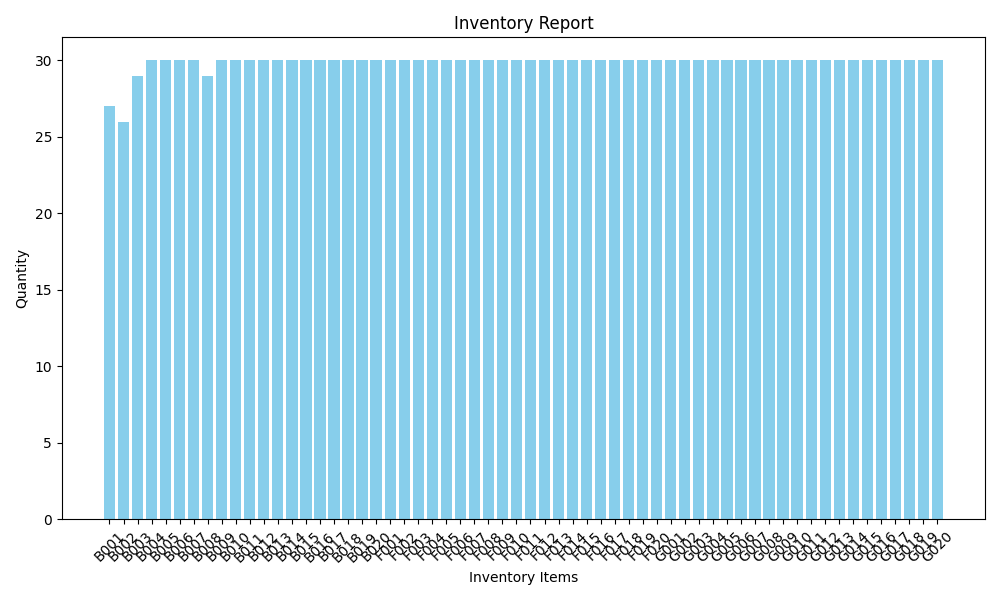
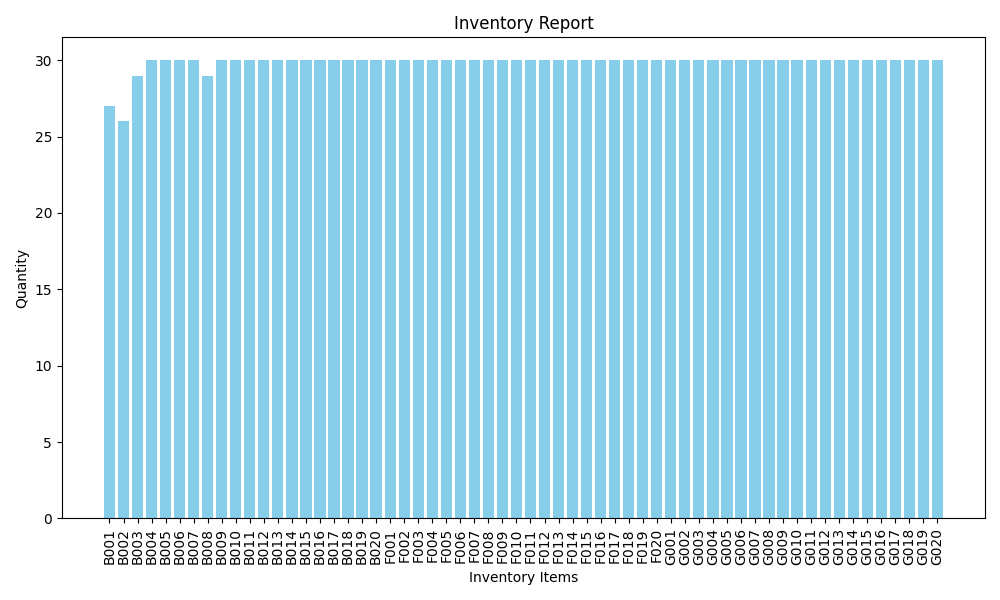
hehe

Changed region(s): [[0.062, 0.84, 0.961, 0.96], [0.031, 0.6, 0.062, 0.63], [0.031, 0.33, 0.062, 0.36]]

diff --git a/main_admin.py b/main_admin.py
@@ -4,8 +4,6 @@ from tkinter import messagebox, ttk
 import subprocess
 from functions import *
 from datetime import datetime
-import os
-import glob
 
 class InventoryWindow(Inventory):
     def __init__(self, root, admin_ui):
@@ -185,17 +183,17 @@ class admin_UI:
         self.clock_label.place(x=0, 
                                y=self.root.winfo_screenheight()*0.07, 
                                relwidth=1, 
-                               height=self.root.winfo_screenheight()*0.08)
+                               height=self.root.winfo_screenheight()*0.05)
 
         # Left Menu
         left_menu = tk.Frame(self.root, bd=2, relief=tk.RIDGE, bg="white")
         left_menu.place(x=0, 
-                        y=self.root.winfo_screenheight()*0.15, 
+                        y=self.root.winfo_screenheight()*0.12, 
                         relwidth=0.2, 
-                        height=self.root.winfo_screenheight()*0.85)
+                        height=self.root.winfo_screenheight()*0.88)
 
         main_panel = tk.Frame(self.root, bd=2, relief=tk.FLAT)
-        main_panel.place(x=self.root.winfo_screenwidth()*0.2, y=102, relwidth=0.8, height=self.root.winfo_screenheight()-102)
+        main_panel.place(x=self.root.winfo_screenwidth()*0.2, y=self.root.winfo_screenheight()*0.12, relwidth=0.8, height=self.root.winfo_screenheight()*0.88)
         menu_label = tk.Label(left_menu, text="Menu", font=("times new roman", 20), bg="pink")
         menu_label.pack(side=tk.TOP, fill=tk.X)
 
@@ -207,14 +205,14 @@ class admin_UI:
         # Buttons in Left Menu
         flower_label = tk.Label(left_menu, image=self.menu_img, compound=tk.CENTER)
         flower_label.pack(side=tk.TOP, fill=tk.X)
-        inventory_button = tk.Button(left_menu, text="\nInventory Module\n", command=self.inventoryWindwow.inventory_window, font=("times new roman", 20), bg="blue", fg="white")
+        inventory_button = tk.Button(left_menu, text="\nInventory Module\n", command=self.inventoryWindwow.inventory_window, font=("times new roman", 20),cursor="hand2")
         inventory_button.pack(side=tk.TOP, fill=tk.X)
-        analytics_button = tk.Button(left_menu, text="\nAnalytics\n", command=self.analyticsWindow.analytics_window, font=("times new roman", 20), bg="blue", fg="white")
+        analytics_button = tk.Button(left_menu, text="\nAnalytics\n", command=self.analyticsWindow.analytics_window, font=("times new roman", 20),cursor="hand2")
         analytics_button.pack(side=tk.TOP, fill=tk.X)
-        order_status_button = tk.Button(left_menu, text="\nOrders\n", font=("times new roman", 20), bg="blue", fg="white")
+        order_status_button = tk.Button(left_menu, text="\nOrders\n", font=("times new roman", 20), cursor="hand2")
         order_status_button.pack(side=tk.TOP, fill=tk.X)
-        customer_button = tk.Button(left_menu, text="\nCustomer Page\n", command=self.open_customer_UI, font=("times new roman", 20), bg="yellow", bd=3, cursor="hand2")
-        customer_button.pack(side=tk.BOTTOM, fill=tk.X)
+        customer_button = tk.Button(left_menu, text="\nCustomer Page\n", command=self.open_customer_UI, font=("times new roman", 20), bg="light grey", bd=3, cursor="hand2")
+        customer_button.pack(side=tk.TOP, fill=tk.X)
 
     def returnToMain(self):
         for widget in self.root.winfo_children():

diff --git a/functions.py b/functions.py
@@ -60,8 +60,6 @@ class Inventory:
                 messagebox.showinfo("Success", f"{quantity} {item} removed from inventory.")
             else:
                 messagebox.showinfo(f"Error: Not enough {item} in inventory.")
-        else:
-            messagebox.showinfo(f"Error: {item} not found in inventory.")
         self.save_inventory()
 
     def delete_item(self, item_name):
@@ -83,7 +81,6 @@ class Inventory:
 
 class Report(Inventory):
     def generate_inv_report(self):
-        # Create a bar plot for inventory items
         items = list(self.inventory.keys())
         quantities = list(self.inventory.values())
 
@@ -92,17 +89,15 @@ class Report(Inventory):
         plt.xlabel('Inventory Items')
         plt.ylabel('Quantity')
         plt.title('Inventory Report')
-        plt.xticks(rotation=45)
+        plt.xticks(rotation=90)
         plt.tight_layout()
 
-        # Ensure the directory exists
         directory = 'report'
         if not os.path.exists(directory):
             os.makedirs(directory)
 
-        # Save the plot as an image or display it
-        plt.savefig(f'{directory}/inventory_report_{datetime.now().date()}.png')  # Save as an image
-        return plt.show()  # Display the plot (uncomment if needed)
+        plt.savefig(f'{directory}/inventory_report_{datetime.now().date()}.png') 
+        return plt.show()
     
     def get_latest_image(self):
         list_of_files = glob.glob('report/*')
@@ -148,4 +143,3 @@ class PasswordManager:
         if encrypted_password is None:
             return False
         return self.decrypt_password(encrypted_password) == password
-

diff --git a/main_customer.py b/main_customer.py
@@ -6,7 +6,7 @@ from datetime import datetime
 from functions import customerDatabase, Customer, PasswordManager
 
 purchaselistprice=[]
-purchaselist=[]
+purchaselist=[] #include price in inventory so that when one item is deleted, the whole stuff get deleted
 flowerprice = {"B001": 499.00, "B002": 379.00,"B003": 1329.00,"B004": 399.00,"B005": 389.00,"B006": 399.00,"B007": 779.00,"B008": 159.00,"B009": 189.00,"B010": 229.00,"B011": 179.00,"B012": 399.00,"B013": 399.00,"B014": 389.00, 
     "B015": 179.00,"B016": 249.00,"B017": 199.00,"B018": 229.00,"B019": 299.00,"B020": 179.00, "F001": 439.00,"F002": 289.00,"F003": 699.00, "F004": 639.00,"F005": 439.00,"F006": 219.00, "F007": 269.00,
     "F008": 259.00,"F009": 759.00,"F010": 679.00, "F011": 389.00,"F012": 599.00, "F013": 799.00, "F014": 899.00,"F015": 1129.00,"F016": 399.00,"F017": 359.00,"F018": 499.00,"F019": 399.00,"F020": 499.00,
